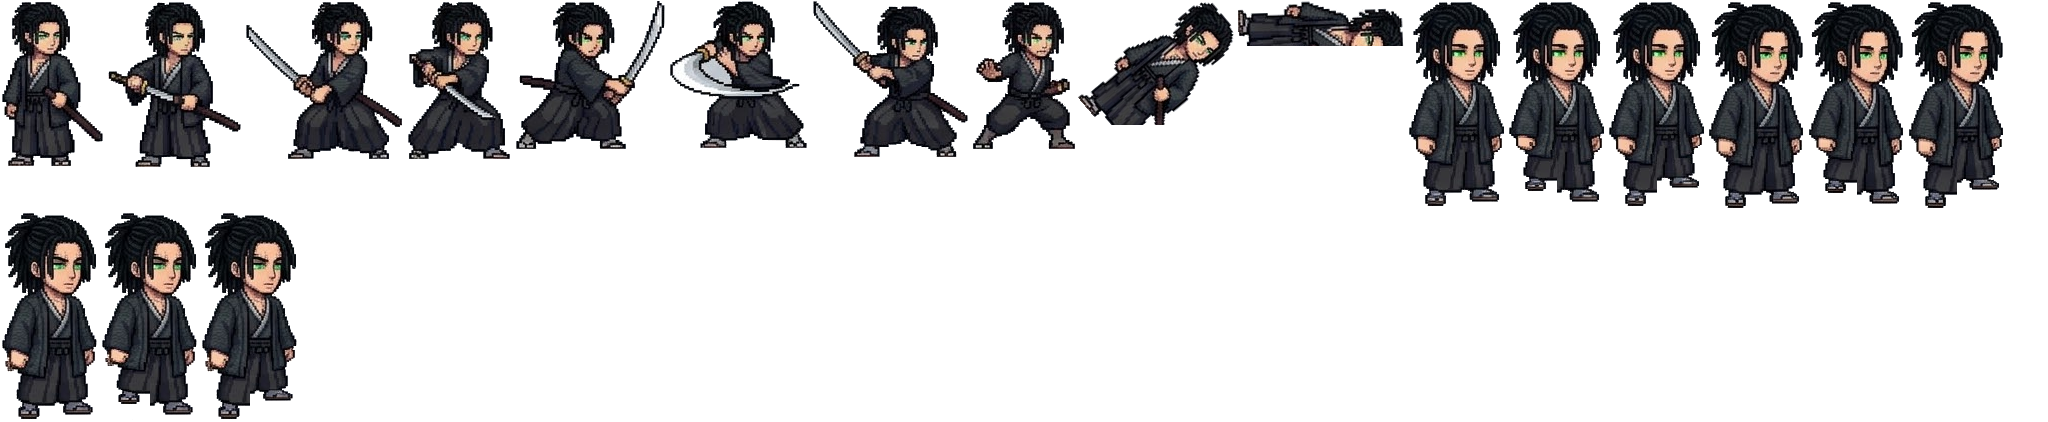
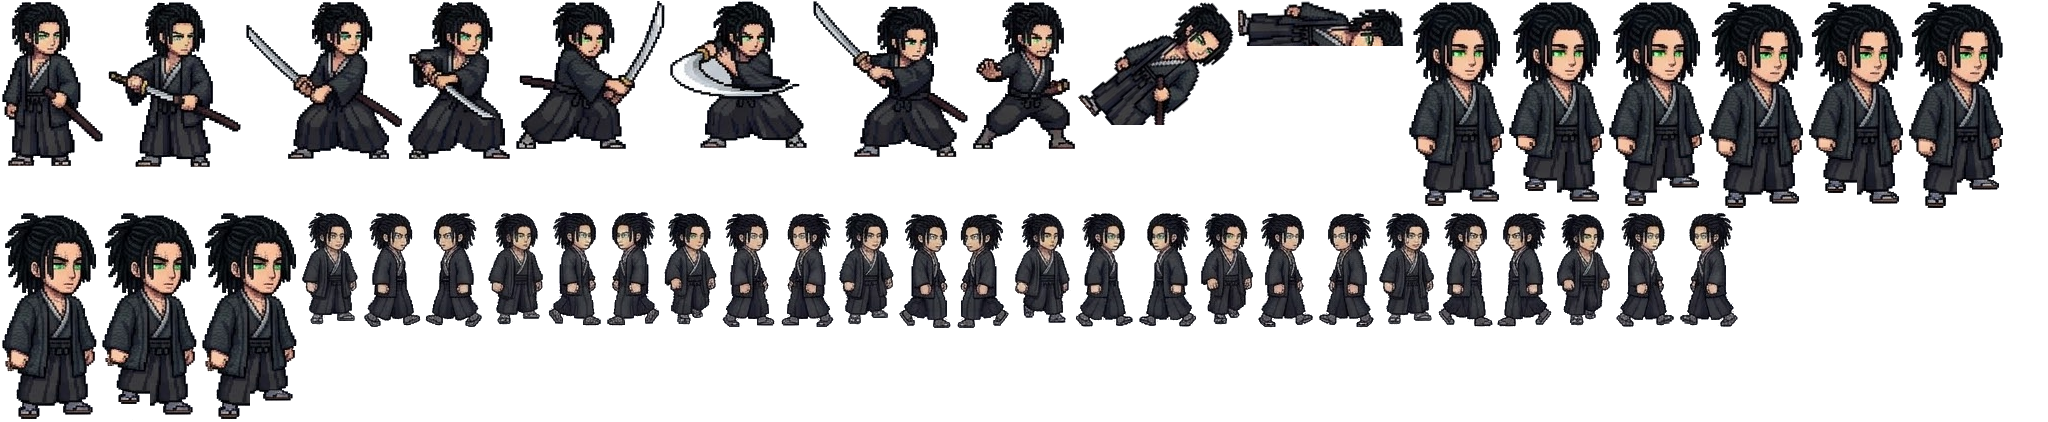
Hooded Ren (kimono + hood) with portraits and glowing-eye sprint; real walk cycles for Ren; shinobi set becomes the Red Veil
Claude-Session: https://claude.ai/code/session_01Y9XB2BHqdWdEP8tdmCfuZX

Changed region(s): [[0.125, 0.4929, 0.875, 0.7701]]

diff --git a/emerald-blood/index.html b/emerald-blood/index.html
@@ -335,50 +335,50 @@ h1{font-family:'Press Start 2P';font-size:clamp(18px,3.4vw,30px);color:var(--gre
   setTimeout(function(){ if(window.G&&G.mode==='boot'){ var t=document.getElementById('loadTxt'); add('Still loading after 25s — stuck at: '+(t?t.textContent:'?')+' ('+(document.getElementById('loadBar')||{style:{}}).style.width+')'); } },25000);
 })();
 </script>
-<script src="js/core.js?v=74"></script>
-<script src="js/world.js?v=74"></script>
-<script src="js/dialog.js?v=74"></script>
-<script src="js/portraits.js?v=74"></script>
-<script src="js/cine.js?v=74"></script>
-<script src="js/battle.js?v=74"></script>
-<script src="js/monsters.js?v=74"></script>
-<script src="js/realm.js?v=74"></script>
-<script src="js/story.js?v=74"></script>
-<script src="js/stones.js?v=74"></script>
-<script src="js/lore.js?v=74"></script>
-<script src="js/guild.js?v=74"></script>
-<script src="js/progress.js?v=74"></script>
-<script src="js/dungeons.js?v=74"></script>
-<script src="js/quests.js?v=74"></script>
-<script src="js/worldmap.js?v=74"></script>
-<script src="js/events.js?v=74"></script>
-<script src="js/companions.js?v=74"></script>
-<script src="js/bonds.js?v=74"></script>
-<script src="js/bloodlust.js?v=74"></script>
-<script src="js/ui.js?v=74"></script>
-<script src="js/ch1.js?v=74"></script>
-<script src="js/passives.js?v=74"></script>
-<script src="js/veil.js?v=74"></script>
-<script src="js/leaf.js?v=74"></script>
-<script src="js/tavern.js?v=74"></script>
-<script src="js/ambient.js?v=74"></script>
-<script src="js/combat2.js?v=74"></script>
-<script src="js/combat3.js?v=74"></script>
-<script src="js/combat4.js?v=74"></script>
-<script src="js/battlefx.js?v=74"></script>
-<script src="js/feats.js?v=74"></script>
-<script src="js/clash.js?v=74"></script>
-<script src="js/ch1b.js?v=74"></script>
-<script src="js/combat5.js?v=74"></script>
-<script src="js/elements.js?v=74"></script>
-<script src="js/flurry.js?v=74"></script>
-<script src="js/journey.js?v=74"></script>
-<script src="js/renown.js?v=74"></script>
-<script src="js/contracts.js?v=74"></script>
-<script src="js/raids.js?v=74"></script>
-<script src="js/ledger.js?v=74"></script>
-<script src="js/btsprites.js?v=74"></script>
-<script src="js/hdsprites.js?v=74"></script>
+<script src="js/core.js?v=75"></script>
+<script src="js/world.js?v=75"></script>
+<script src="js/dialog.js?v=75"></script>
+<script src="js/portraits.js?v=75"></script>
+<script src="js/cine.js?v=75"></script>
+<script src="js/battle.js?v=75"></script>
+<script src="js/monsters.js?v=75"></script>
+<script src="js/realm.js?v=75"></script>
+<script src="js/story.js?v=75"></script>
+<script src="js/stones.js?v=75"></script>
+<script src="js/lore.js?v=75"></script>
+<script src="js/guild.js?v=75"></script>
+<script src="js/progress.js?v=75"></script>
+<script src="js/dungeons.js?v=75"></script>
+<script src="js/quests.js?v=75"></script>
+<script src="js/worldmap.js?v=75"></script>
+<script src="js/events.js?v=75"></script>
+<script src="js/companions.js?v=75"></script>
+<script src="js/bonds.js?v=75"></script>
+<script src="js/bloodlust.js?v=75"></script>
+<script src="js/ui.js?v=75"></script>
+<script src="js/ch1.js?v=75"></script>
+<script src="js/passives.js?v=75"></script>
+<script src="js/veil.js?v=75"></script>
+<script src="js/leaf.js?v=75"></script>
+<script src="js/tavern.js?v=75"></script>
+<script src="js/ambient.js?v=75"></script>
+<script src="js/combat2.js?v=75"></script>
+<script src="js/combat3.js?v=75"></script>
+<script src="js/combat4.js?v=75"></script>
+<script src="js/battlefx.js?v=75"></script>
+<script src="js/feats.js?v=75"></script>
+<script src="js/clash.js?v=75"></script>
+<script src="js/ch1b.js?v=75"></script>
+<script src="js/combat5.js?v=75"></script>
+<script src="js/elements.js?v=75"></script>
+<script src="js/flurry.js?v=75"></script>
+<script src="js/journey.js?v=75"></script>
+<script src="js/renown.js?v=75"></script>
+<script src="js/contracts.js?v=75"></script>
+<script src="js/raids.js?v=75"></script>
+<script src="js/ledger.js?v=75"></script>
+<script src="js/btsprites.js?v=75"></script>
+<script src="js/hdsprites.js?v=75"></script>
 <script>if('serviceWorker' in navigator&&location.protocol==='https:')navigator.serviceWorker.register('sw.js').catch(()=>{});</script>
 </body>
 </html>

diff --git a/emerald-blood/js/hdsprites.js b/emerald-blood/js/hdsprites.js
@@ -9,11 +9,11 @@ const HD = {
   load() {
     fetch('assets/hd/hd.json?v=' + Date.now().toString(36).slice(0, 5), { cache: 'no-cache' }).then(r => r.json()).then(m => {
       this.meta = m;
-      for (const k of ['ren', 'hood', 'kairo', 'npcs']) loadImg(`assets/hd/${m[k].img}?v=${m.v}`).then(i => { this.img[k] = i; }).catch(() => {});
+      for (const k of ['ren', 'hood', 'veil', 'kairo', 'npcs']) loadImg(`assets/hd/${m[k].img}?v=${m.v}`).then(i => { this.img[k] = i; }).catch(() => {});
     }).catch(() => {});
   },
   on() { return !!this.meta && !(G.settings && G.settings.classicSprites); },
-  playerSet() { return G.S && G.S.hood ? 'hood' : 'ren'; },
+  playerSet() { return G.S && G.S.hood ? (typeof Veil !== 'undefined' && Veil.on() ? 'veil' : 'hood') : 'ren'; },
   npcName(e) { return String(e.sprite || e.spr || e.key || e.id || ''); },
   /* named characters with their own full sets */
   setOf(name, key) { return /^kairo(_b|_h)?$/.test(name) || /^kairo_duel/.test(key || '') ? 'kairo' : null; },
@@ -120,7 +120,7 @@ HD.load();
       const set = HD.playerSet(); img = HD.sheet(set, false); if (!img) return _draw.call(this, c, cx, cy, t);
       const A = img.__hd.anims, side = this.dir === 'left' || this.dir === 'right';
       const base = side ? 'ow_side' : this.dir === 'up' ? 'ow_up' : 'ow_down', list = moving && A[base + '_walk'] || A[base];
-      const i = list[st % list.length];
+      const i = moving ? list[Math.floor(this.walkT / (this.move.ms / (list.length >= 8 ? 4 : 2))) % list.length] : list[0];
       fr = img.__hd.frames[i]; faces = 'right'; // the overworld views look to the right; battle frames look left
     } else if (HD.setOf(HD.npcName(this)) && HD.img.kairo) {
       img = HD.sheet('kairo', false); const A = img.__hd.anims;

diff --git a/emerald-blood/js/world.js b/emerald-blood/js/world.js
@@ -240,9 +240,10 @@ const World = {
     // player eye glow
     const p = this.player;
     if (!G.S.hood && G.S.f.dragAwake !== false && p.dir !== 'up' && !p.hidden) {
-      const gx = p.px - cx + (p.dir === 'left' ? -3 : p.dir === 'right' ? 3 : 0), gy = p.py - cy - 33, a = .5 + .15 * Math.sin(t / 260);
+      const hd = typeof HD !== 'undefined' && HD.on() && HD.OW && !G.S.kid;   // the new sprites have the green eyes painted in: only a faint halo
+      const gx = p.px - cx + (p.dir === 'left' ? -3 : p.dir === 'right' ? 3 : 0), gy = hd ? p.py - cy + 3 - HD.OW_H * .76 : p.py - cy - 33, a = (hd ? .22 : .5) + .15 * Math.sin(t / 260);
       c.save(); c.globalCompositeOperation = 'lighter';
-      const g = c.createRadialGradient(gx, gy, 0, gx, gy, 7); g.addColorStop(0, `rgba(70,255,140,${a})`); g.addColorStop(1, 'rgba(70,255,140,0)');
+      const g = c.createRadialGradient(gx, gy, 0, gx, gy, hd ? 5 : 7); g.addColorStop(0, `rgba(70,255,140,${a})`); g.addColorStop(1, 'rgba(70,255,140,0)');
       c.fillStyle = g; c.fillRect(gx - 7, gy - 7, 14, 14); c.restore();
     }
     // interaction hint

diff --git a/emerald-blood/sw.js b/emerald-blood/sw.js
@@ -1,6 +1,6 @@
 // pages & scripts: network-first (updates arrive immediately). Images: served from the phone's cache,
 // refreshed quietly in the background — so launching never waits on hundreds of image checks.
-const C = 'emerald-blood-v71', IMG = 'emerald-blood-img-2';
+const C = 'emerald-blood-v72', IMG = 'emerald-blood-img-2';
 self.addEventListener('install', e => self.skipWaiting());
 self.addEventListener('activate', e => e.waitUntil(caches.keys().then(ks => Promise.all(ks.filter(k => k !== C && k !== IMG).map(k => caches.delete(k)))).then(() => clients.claim())));
 self.addEventListener('fetch', e => {
